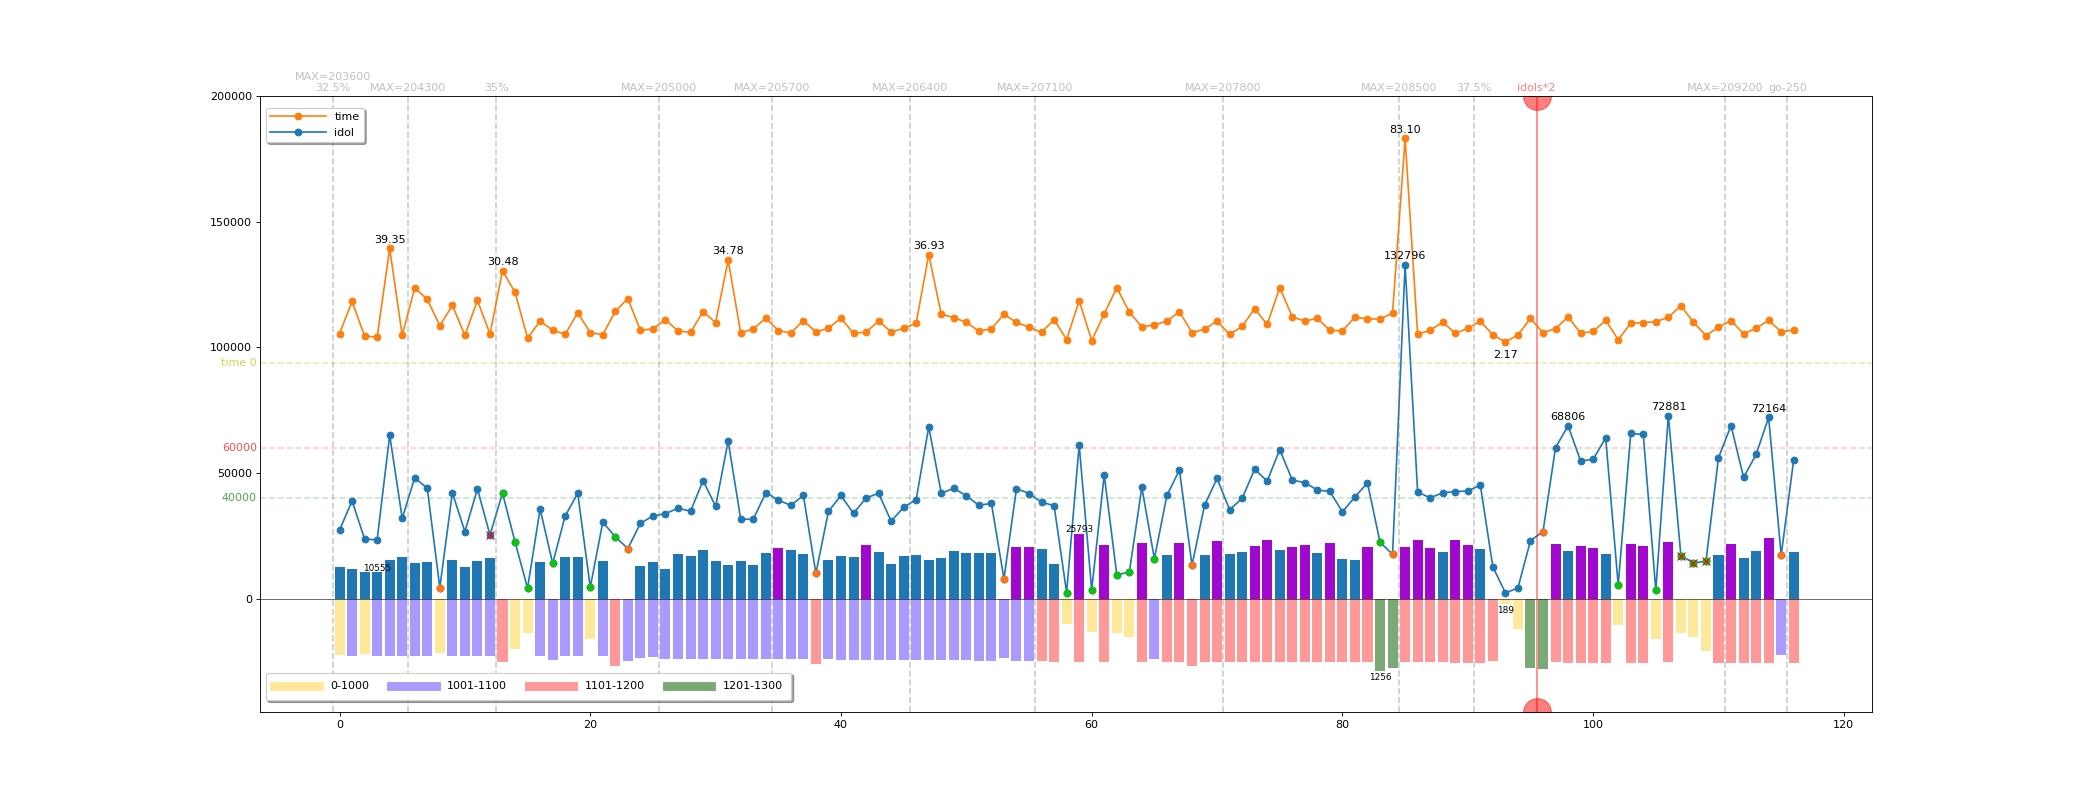
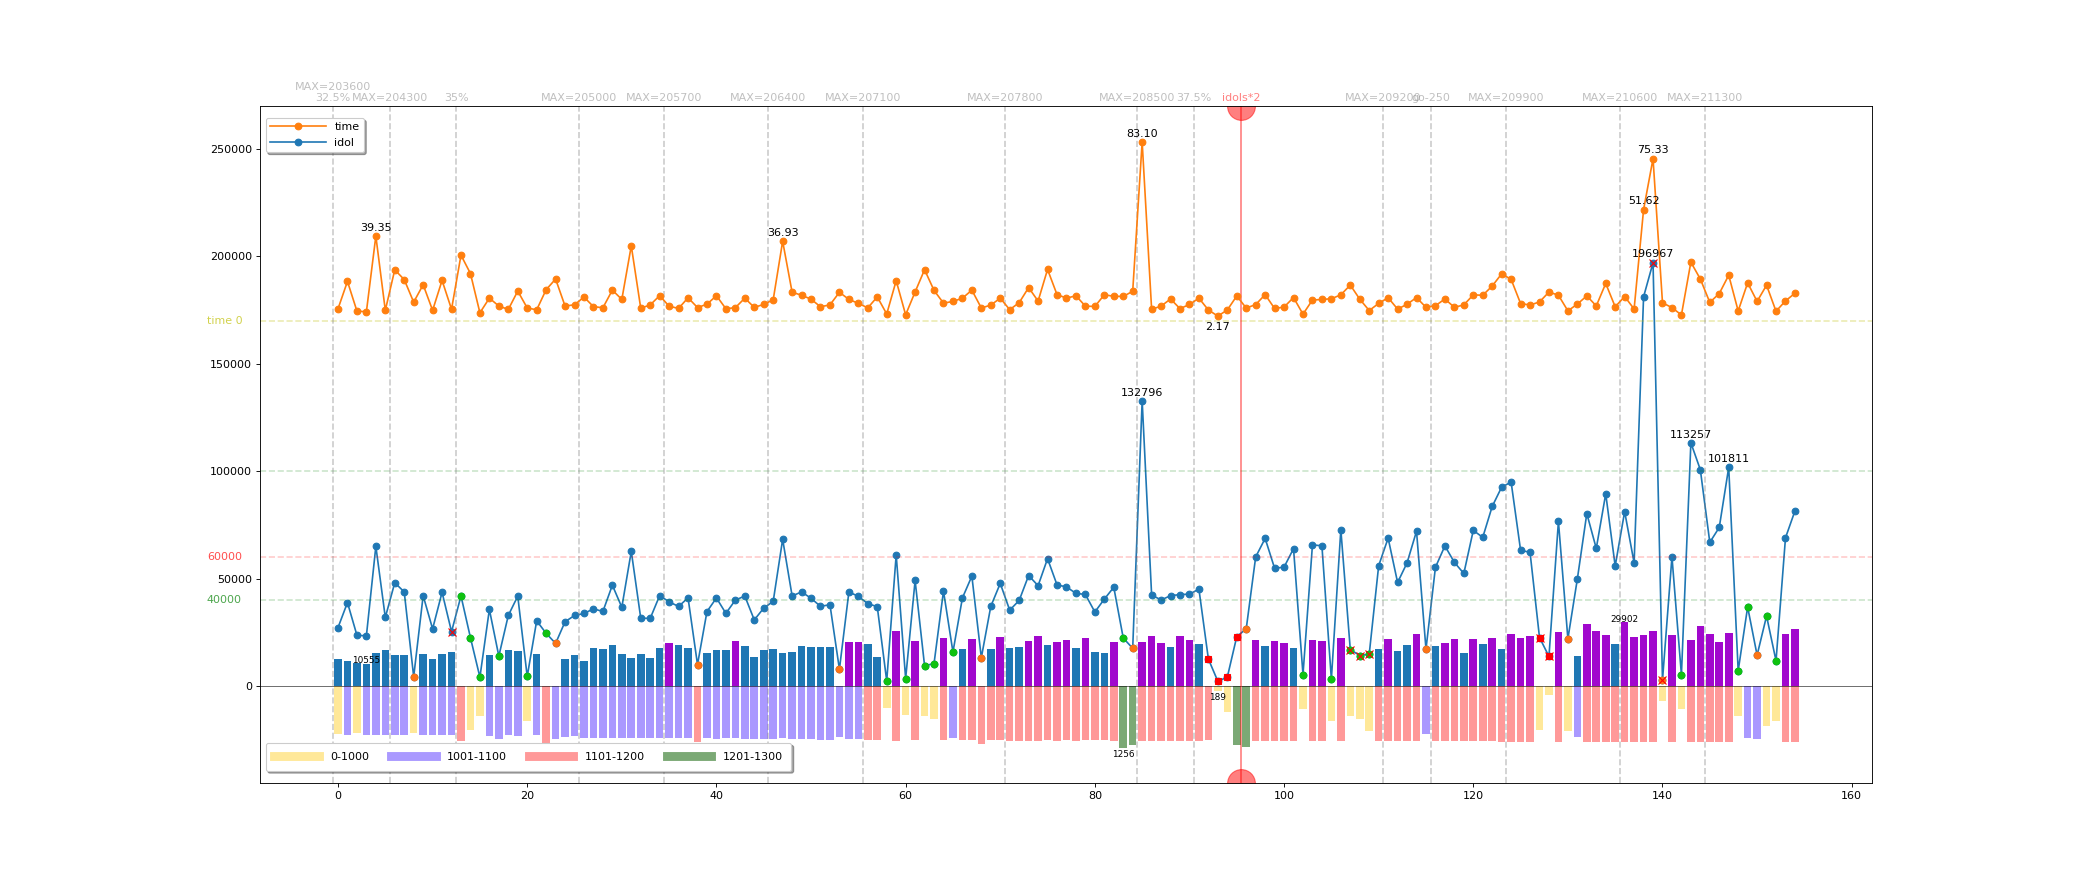
数值变大, 调整坐标

diff --git a/plot.py b/plot.py
@@ -126,7 +126,8 @@ def plot():
     # 数据, 特殊标记(有空列的行)
     data, make = format_data()
 
-    plt.figure(figsize=(26,10), dpi=80)
+    # plt.figure(figsize=(28,14), dpi=80)
+    plt.figure(figsize=(26,11), dpi=80)
     # plt.rcParams['font.sans-serif'] = ['SimHei']
     plt.rcParams['font.serif'] = ['consola']
 
@@ -169,10 +170,10 @@ def plot():
             boss.append(0)
 
         # 没有写满的行, 都会加入make, 取的第一个存在的列, 并不是第一列
-        # if re.search(r'ms', i):
+        if re.search(r'ms', i):
             # 是以level列的值, 做的标记
             # 把 level 行替换成ms, 标识任务flag
-            # data['level'][index] = 'ms'
+            data['level'][index] = 'ms'
 
     for index,i in enumerate(boss):
         if i>20000:
@@ -250,9 +251,12 @@ def plot():
     plt.axhline(40000, ls="--", c="g", alpha=0.2)
     plt.text(this_x, 40000, '40000',  color='g', fontsize=10, ha='center', va='center', alpha=0.7)
 
+    plt.axhline(100000, ls="--", c="g", alpha=0.2)
+    # plt.text(this_x, 100000, '100000',  color='b', fontsize=10, ha='center', va='center', alpha=0.7)
+
     # 24h line
-    plt.axhline(24*1000+70000, ls="--", c="y", alpha=0.3)
-    plt.text(this_x, 24*1000+70000, 'time 0',  color='y', fontsize=10, ha='center', va='center', alpha=0.7)
+    plt.axhline(170000, ls="--", c="y", alpha=0.3)
+    plt.text(this_x, 170000, 'time 0',  color='y', fontsize=10, ha='center', va='center', alpha=0.7)
 
     # 20000 line
     # plt.axhline(20000, ls="--", c="b", alpha=0.1)
@@ -262,6 +266,7 @@ def plot():
 
     #---------------------------------------------------------
     # Y轴 make, buff name
+    bl = 270000
     for k,v in make.iteritems():
         if len(v) > 1:
             s = v[0] + "\n" + v[1] # 使用的是第一个值, 第二个值
@@ -270,10 +275,10 @@ def plot():
 
         if re.search(r'\*2', s):
             plt.axvline(float(k), ls="-", c="r", marker='o', markersize = 25, alpha=0.5)
-            plt.text(float(k), 200000+1000, s, fontsize=10, color='r', ha='center', va='bottom', alpha=0.5)
+            plt.text(float(k), bl+1000, s, fontsize=10, color='r', ha='center', va='bottom', alpha=0.5)
         else:
             plt.axvline(float(k), ls="--", c="gray", alpha=0.4)
-            plt.text(float(k), 200000+1000, s, fontsize=10, color='gray', ha='center', va='bottom', alpha=0.5)
+            plt.text(float(k), bl+1000, s, fontsize=10, color='gray', ha='center', va='bottom', alpha=0.5)
 
     #---------------------------------------------------------
     # idols 最大值, 最小值
@@ -288,7 +293,7 @@ def plot():
         if re.search('et', i):
             plt.plot(index, data['all'][index],'o', c="#0FC20F")
         if re.search('ms', i):
-            plt.plot(index, data['all'][index],'o', c="r")
+            plt.plot(index, data['all'][index],'s', c="r")
 
     #---------------------------------------------------------
     # not 25%
@@ -299,7 +304,7 @@ def plot():
     #---------------------------------------------------------
     # time
     time = []
-    baseline = 100000
+    baseline = 170000
     for i in data['time(h)']:
         time.append(baseline+float(i)*1000)
     l_time, = plt.plot(time, marker='o', label="time")
